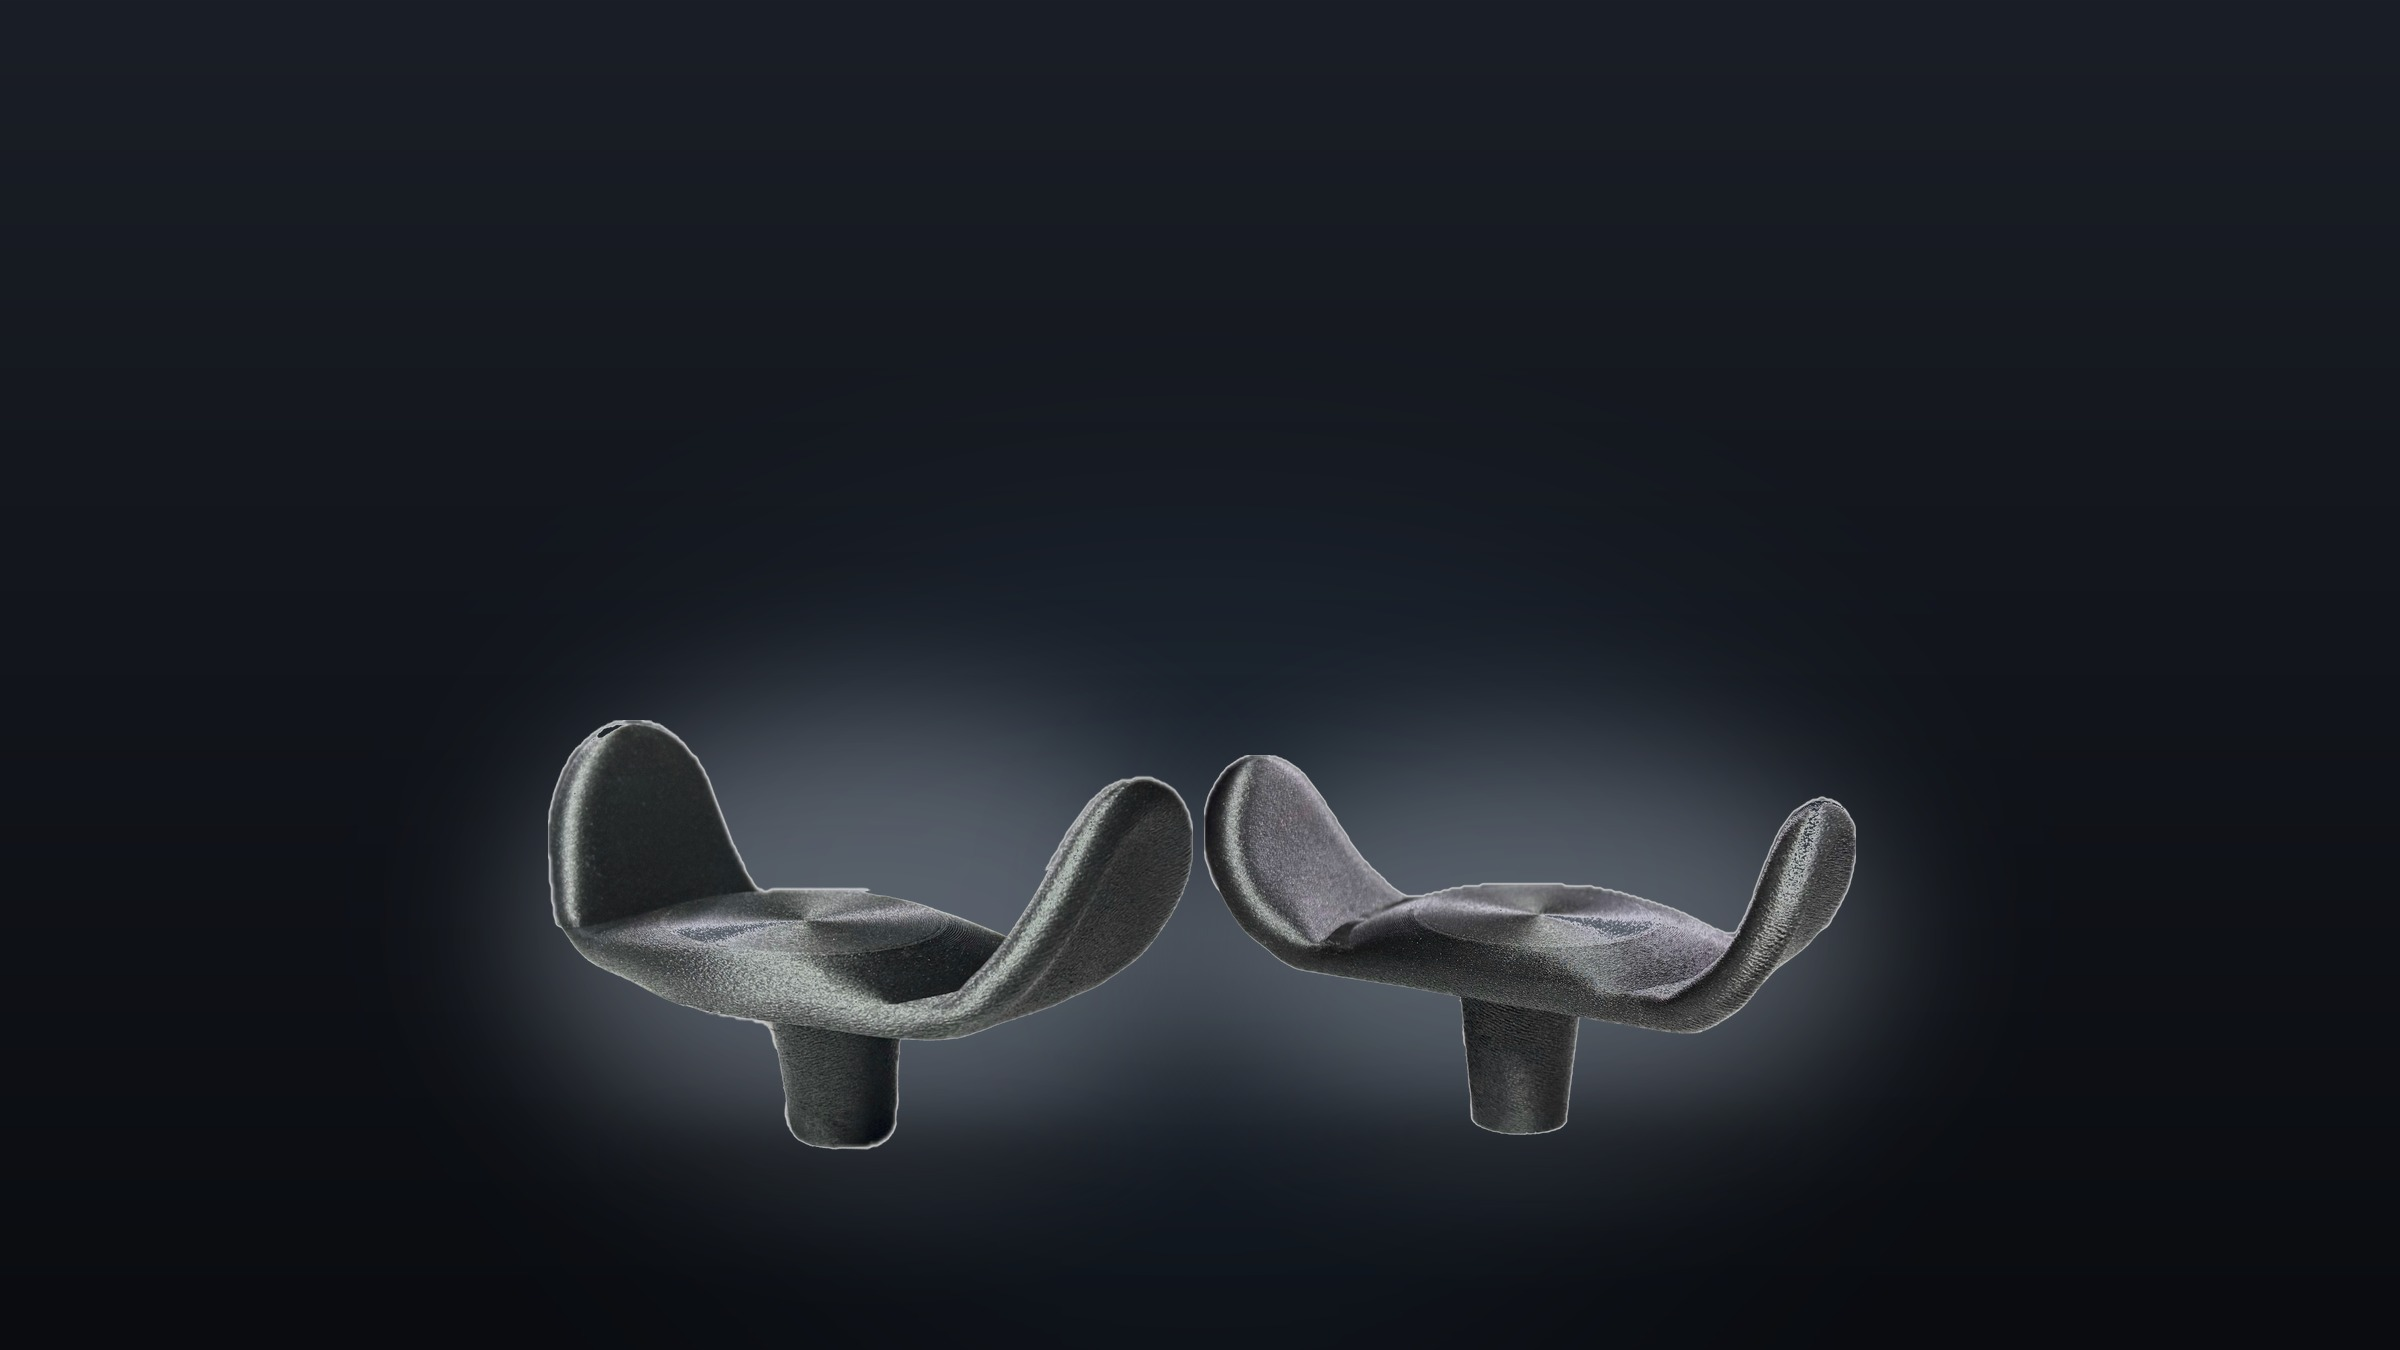
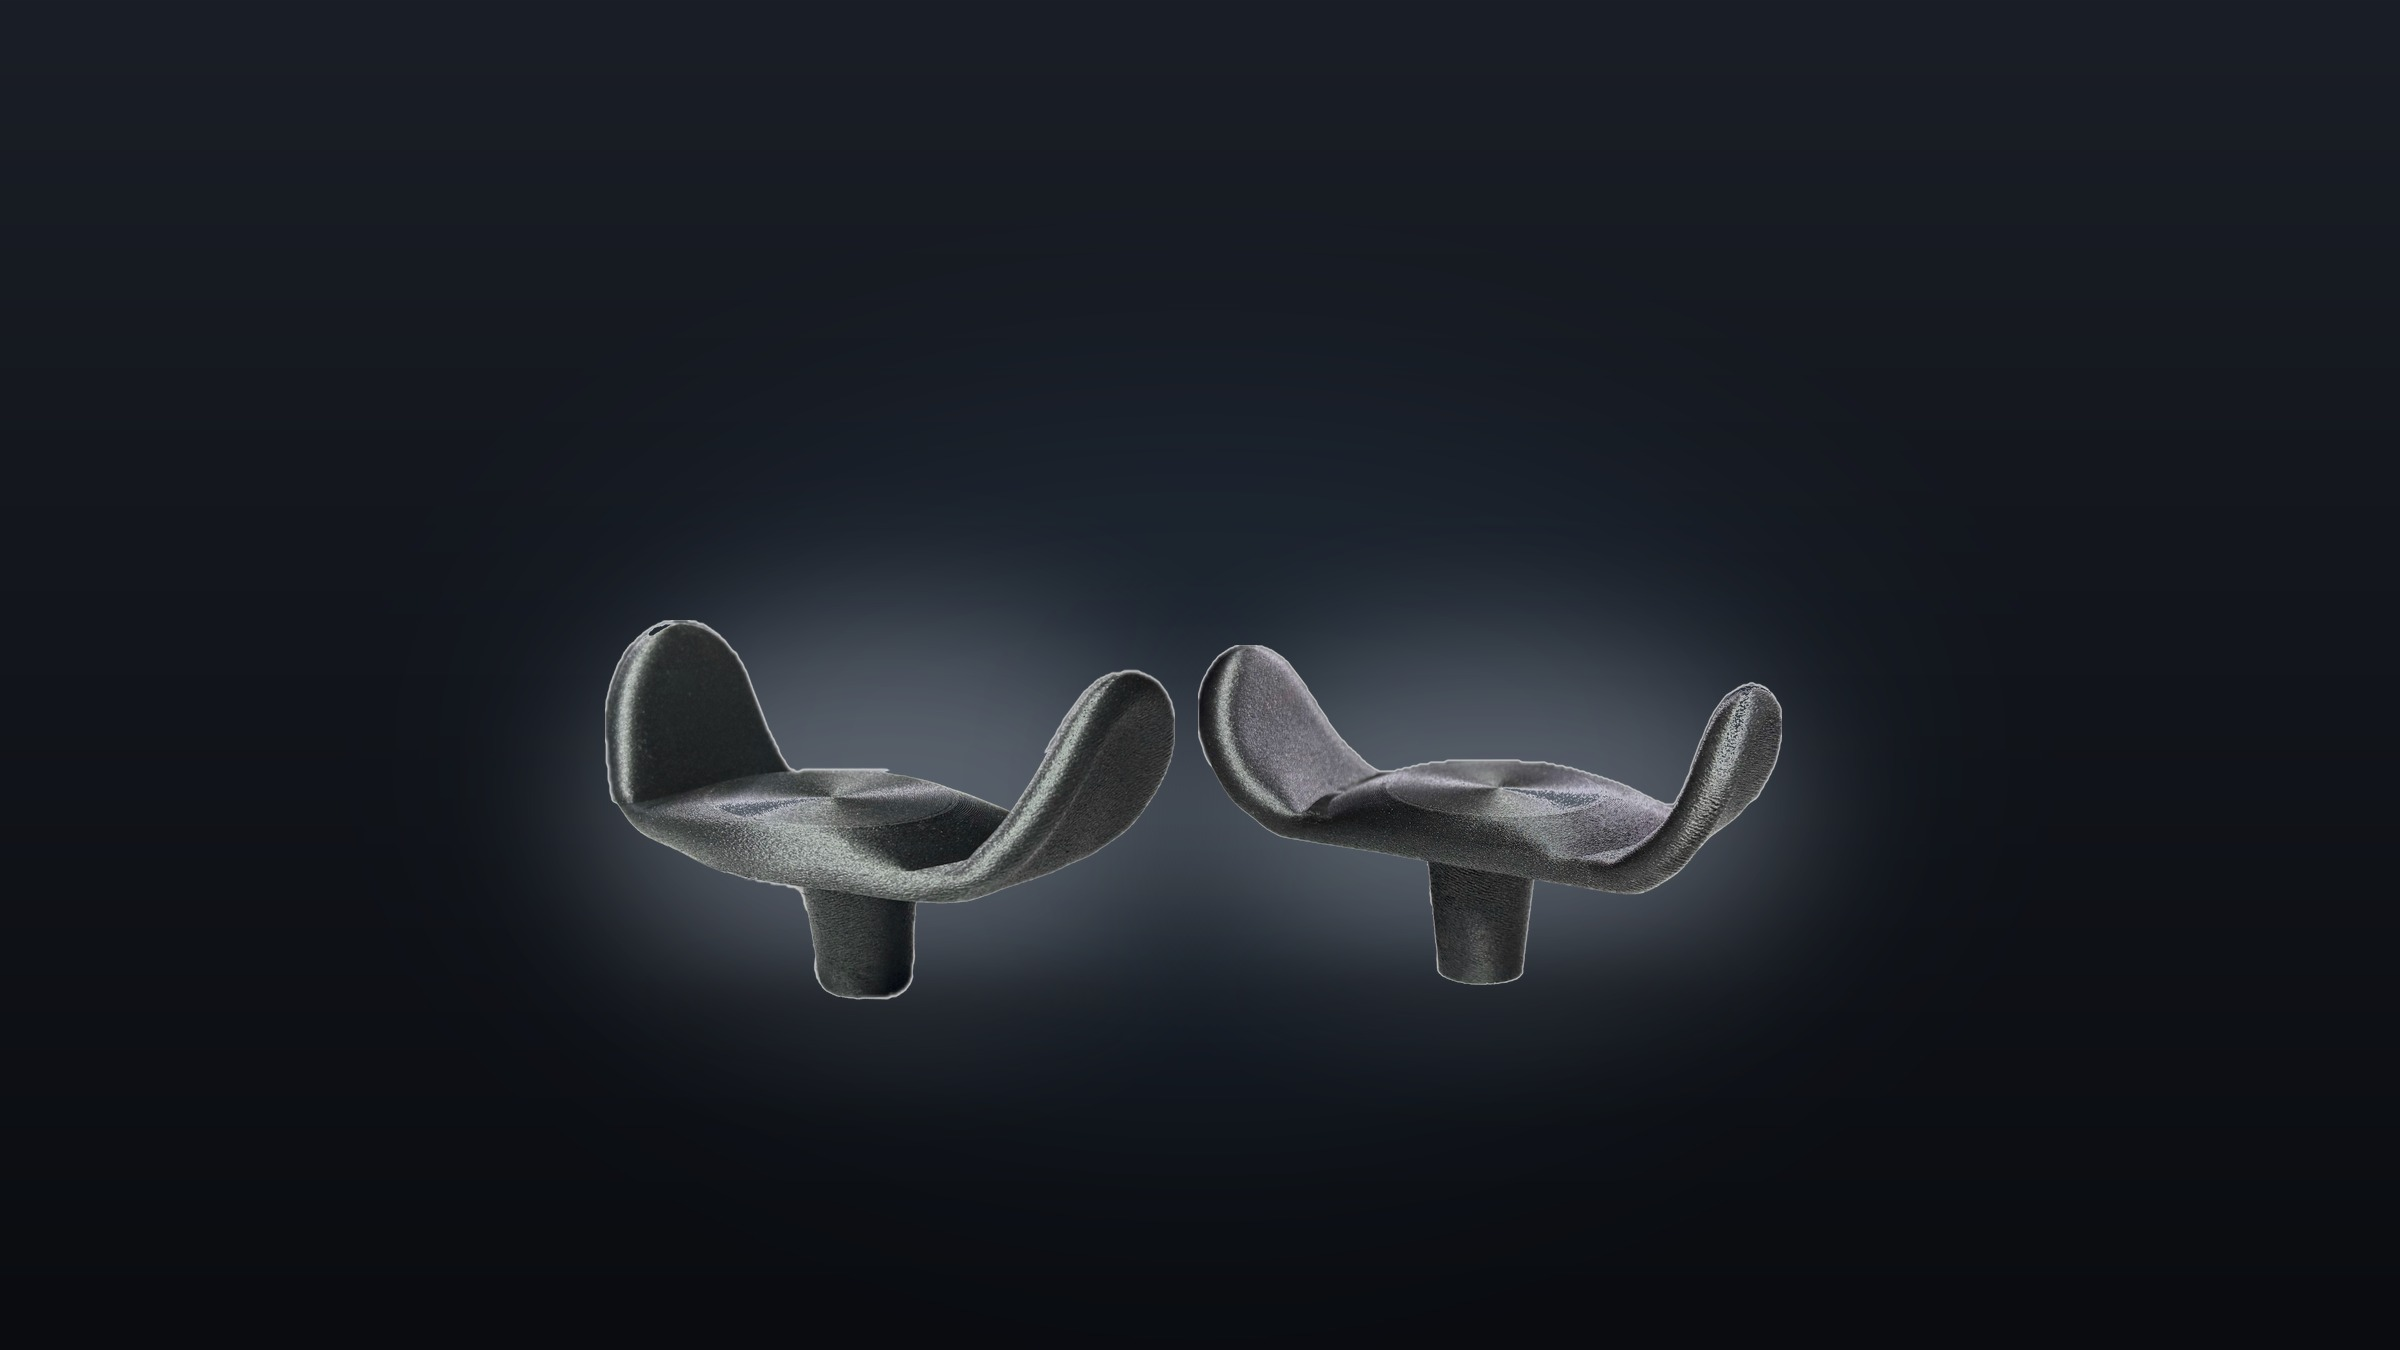
1.11

Changed region(s): [[0.2188, 0.4356, 0.7812, 0.8711]]

diff --git a/assets/site.css b/assets/site.css
@@ -137,3 +137,25 @@ h6{ font-size: .75rem; }
 .rh-pdp__buy .button{ width: 240px; display: inline-flex; align-items: center;
   justify-content: center; gap: 10px; }
 .rh-pdp__buy .button svg{ width: 20px; height: 20px; flex: none; }
+
+/* ---------------- 1.11 polish ----------------
+   Uniform NARROWER boxes: every section (incl. --wide) shares the 800px card
+   standard; 1000px read as too wide. */
+.rh-section{ max-width: 800px; }
+.rh-section--wide{ max-width: 800px !important; }
+
+/* hero: headline top-center, CTA row pinned to the BOTTOM of the image, toppers
+   in the middle band; hero may shrink further without cropping the product */
+.rh-hero{ min-height: clamp(320px, 52vh, 560px); align-items: stretch; }
+.rh-hero__inner{ display: flex; flex-direction: column; align-items: center;
+  padding-block: 40px 26px; }
+.rh-hero__sub{ margin-bottom: 0; }
+.rh-hero__ctas{ margin-top: auto; padding-top: 24px;
+  display: flex; gap: 12px; justify-content: center; flex-wrap: wrap; }
+/* slimmer, shorter hero buttons (the 15px/22px-radius base reads too fat here) */
+.rh-hero__ctas .button{ width: auto !important; max-width: none !important;
+  padding: 9px 22px !important; font-size: 1.02rem !important;
+  border-radius: 14px !important; }
+
+.rh-coming-soon{ text-align: center; opacity: .75; font-weight: 300;
+  margin: 18px 0 0; }

diff --git a/index.html b/index.html
@@ -14,12 +14,10 @@
 </head>
 <body>
 <header class="site-header"><div class="rh-header__pill"><input id="rh-nav-toggle" class="rh-nav__cb" type="checkbox" aria-hidden="true"><a class="rh-header__brand" href="index.html"><img src="assets/rockstar-logo.png" alt="Rockstar Health"></a><nav class="rh-nav" aria-label="Primary"><a href="index.html" aria-current="page">Home</a><a href="about.html">About</a><a href="our-products.html">Our Products</a><a href="financial-structure.html">Financial Structure</a><a href="faq.html">FAQ</a><a href="contact.html">Contact</a></nav><label for="rh-nav-toggle" class="rh-burger" aria-label="Toggle menu"><span></span><span></span><span></span></label></div></header>
-<section class="rh-hero"><div class="rh-hero__inner page-width"><h1 class="rh-hero__title">The nonprofit mobility and healthcare product company.</h1><p class="rh-hero__sub">Made by a wheelchair user, for wheelchair users.</p><a href="our-products.html" class="button button-primary">View Our Products</a></div></section>
+<section class="rh-hero"><div class="rh-hero__inner page-width"><h1 class="rh-hero__title">The nonprofit mobility and healthcare product company.</h1><p class="rh-hero__sub">Made by a wheelchair user, for wheelchair users.</p><div class="rh-hero__ctas"><a href="our-products.html" class="button button-primary">View Our Products</a><a href="about.html" class="button button-secondary">Read Our Story</a></div></div></section>
 <main><div class="page-width page-body"><section class="rh-section"><div class="rh-prose"><p>Rockstar Health makes mobility equipment that starts with the person using it, not the dealer or the insurer. We are nonprofit owned, so every product exists to make independence more affordable and more comfortable for the people who need it. We are early, and we are building in the open.</p></div></section>
 
-<section class="rh-section rh-section--wide" aria-labelledby="home-make"><h2 class="rh-section__title" id="home-make">What we make today</h2><p class="rh-marketplaces__sub">We are starting with adaptive accessories, the small things that make a power chair easier to live with every day.</p><div class="rh-products" style="max-width:400px;margin-inline:auto"><a class="rh-product-card" href="joystick-topper.html"><div class="rh-product-card__media"><img src="assets/card-toppers.jpg" alt="Carbon fiber goalpost joystick topper"></div><div class="rh-product-card__body"><h3 class="rh-product-card__title">Carbon Fiber Goalpost Topper</h3><p class="rh-product-card__desc">An open U-shape grip that replaces the standard joystick knob, for open-hand or low-grip driving. $19.49.</p><span class="rh-product-card__cta">View product</span></div></a></div></section>
-
-<section class="rh-section" aria-labelledby="home-more"><h2 class="rh-section__title" id="home-more">The bigger picture</h2><div class="rh-prose"><p>Rockstar Health was founded in May 2026 by a power wheelchair user who got tired of waiting for the industry to build for real hands and real days. Where the company came from, and how it is structured to keep the mission ahead of profit, are both worth the read.</p></div><div class="rh-cta-group rh-cta-group--row"><a href="about.html" class="button button-primary">Read our story</a><a href="financial-structure.html" class="button button-secondary">How we are structured</a></div></section></div></main>
+<section class="rh-section rh-section--wide" aria-labelledby="home-make"><h2 class="rh-section__title" id="home-make">What we make today</h2><p class="rh-marketplaces__sub">We are starting with adaptive accessories, the small things that make a power chair easier to live with every day.</p><div class="rh-products" style="max-width:400px;margin-inline:auto"><a class="rh-product-card" href="joystick-topper.html"><div class="rh-product-card__media"><img src="assets/card-toppers.jpg" alt="Carbon fiber goalpost joystick topper"></div><div class="rh-product-card__body"><h3 class="rh-product-card__title">Carbon Fiber Goalpost Topper</h3><p class="rh-product-card__desc">An open U-shape grip that replaces the standard joystick knob, for open-hand or low-grip driving. $19.49.</p><span class="rh-product-card__cta">View product</span></div></a></div><p class="rh-coming-soon">More products coming soon.</p></section></div></main>
 <footer class="site-footer"><div class="rh-footer"><p>© 2026 Rockstar Health · <a href="storefronts.html">Storefronts</a> · <a href="custom-order.html">Custom Order</a></p></div></footer>
 </body>
 </html>

diff --git a/our-products.html b/our-products.html
@@ -17,7 +17,7 @@
 
 <main><div class="page-width page-body"><section class="rh-page-hero" aria-labelledby="rh-hero-products-1"><div class="rh-page-hero__eyebrow">Shop</div><h1 class="rh-page-hero__heading" id="rh-hero-products-1">Our Products</h1><p class="rh-page-hero__lede">Adaptive accessories and mobility-focused products, designed by a wheelchair user and built around real daily use.</p></section>
 
-<section class="rh-section rh-section--wide" aria-labelledby="rh-title-products-2"><h2 class="rh-section__title" id="rh-title-products-2">Current Products</h2><p class="rh-marketplaces__sub">We are starting with adaptive accessories while the larger mobility work develops. Each one comes from a real gap a wheelchair user runs into.</p><div class="rh-products" style="grid-template-columns:repeat(auto-fit,minmax(195px,1fr))"><a class="rh-product-card" href="joystick-topper.html"><div class="rh-product-card__media"><img src="assets/card-toppers.jpg" alt="Joystick Toppers"></div><div class="rh-product-card__body"><h3 class="rh-product-card__title">Joystick Toppers</h3><p class="rh-product-card__desc">Our carbon fiber goalpost topper. An open U-shape grip that replaces the knob for open-hand or low-grip driving. $19.49.</p><span class="rh-product-card__cta">View product</span></div></a><div class="rh-product-card rh-product-card--soon"><div class="rh-product-card__media"><svg class="rh-product-card__icon" viewBox="0 0 24 24" fill="none" stroke="currentColor" stroke-width="1.5" aria-hidden="true"><rect x="3" y="3" width="18" height="18" rx="2"/><circle cx="9" cy="9" r="2"/><path d="m21 15-3.086-3.086a2 2 0 0 0-2.828 0L6 21"/></svg><span class="rh-product-card__media-label">Photo coming soon</span></div><div class="rh-product-card__body"><h3 class="rh-product-card__title">Joystick Covers</h3><p class="rh-product-card__desc">A protective layer that keeps your joystick clean and easy to grip. Made to fit common power wheelchair controllers.</p><span class="rh-product-card__cta rh-product-card__cta--soon">Coming soon</span></div></div><div class="rh-product-card rh-product-card--soon"><div class="rh-product-card__media"><svg class="rh-product-card__icon" viewBox="0 0 24 24" fill="none" stroke="currentColor" stroke-width="1.5" aria-hidden="true"><rect x="3" y="3" width="18" height="18" rx="2"/><circle cx="9" cy="9" r="2"/><path d="m21 15-3.086-3.086a2 2 0 0 0-2.828 0L6 21"/></svg><span class="rh-product-card__media-label">Photo coming soon</span></div><div class="rh-product-card__body"><h3 class="rh-product-card__title">Seating Accessories</h3><p class="rh-product-card__desc">Small additions for comfort and positioning, built around how people actually sit in their chairs all day.</p><span class="rh-product-card__cta rh-product-card__cta--soon">Coming soon</span></div></div><div class="rh-product-card rh-product-card--soon"><div class="rh-product-card__media"><svg class="rh-product-card__icon" viewBox="0 0 24 24" fill="none" stroke="currentColor" stroke-width="1.5" aria-hidden="true"><rect x="3" y="3" width="18" height="18" rx="2"/><circle cx="9" cy="9" r="2"/><path d="m21 15-3.086-3.086a2 2 0 0 0-2.828 0L6 21"/></svg><span class="rh-product-card__media-label">Photo coming soon</span></div><div class="rh-product-card__body"><h3 class="rh-product-card__title">Desk Accessories</h3><p class="rh-product-card__desc">Pieces that help a desk or tray work the way a power chair actually approaches it.</p><span class="rh-product-card__cta rh-product-card__cta--soon">Coming soon</span></div></div></div></section>
+<section class="rh-section rh-section--wide" aria-labelledby="rh-title-products-2"><h2 class="rh-section__title" id="rh-title-products-2">Current Products</h2><p class="rh-marketplaces__sub">We are starting with adaptive accessories while the larger mobility work develops. Each one comes from a real gap a wheelchair user runs into.</p><div class="rh-products" style="max-width:400px;margin-inline:auto"><a class="rh-product-card" href="joystick-topper.html"><div class="rh-product-card__media"><img src="assets/card-toppers.jpg" alt="Joystick Toppers"></div><div class="rh-product-card__body"><h3 class="rh-product-card__title">Joystick Toppers</h3><p class="rh-product-card__desc">Our carbon fiber goalpost topper. An open U-shape grip that replaces the knob for open-hand or low-grip driving. $19.49.</p><span class="rh-product-card__cta">View product</span></div></a></div><p class="rh-coming-soon">More products coming soon.</p></section>
 
 <section class="rh-section" aria-labelledby="rh-title-products-3"><h2 class="rh-section__title" id="rh-title-products-3">Looking For Something Specific?</h2><div class="rh-prose"><p>We take custom requests. Tell us what you are working with and what you are trying to solve, and we will let you know if we can build it.</p><p>You can also order through the marketplaces we are listed on if you prefer to use a platform you already have.</p></div><div class="rh-cta-group"><a href="custom-order.html" class="button button-primary">Start a custom order</a><a href="storefronts.html" class="button button-secondary">Where to find us</a></div></section></div></main>
 <footer class="site-footer"><div class="rh-footer"><p>© 2026 Rockstar Health · <a href="storefronts.html">Storefronts</a> · <a href="custom-order.html">Custom Order</a></p></div></footer>